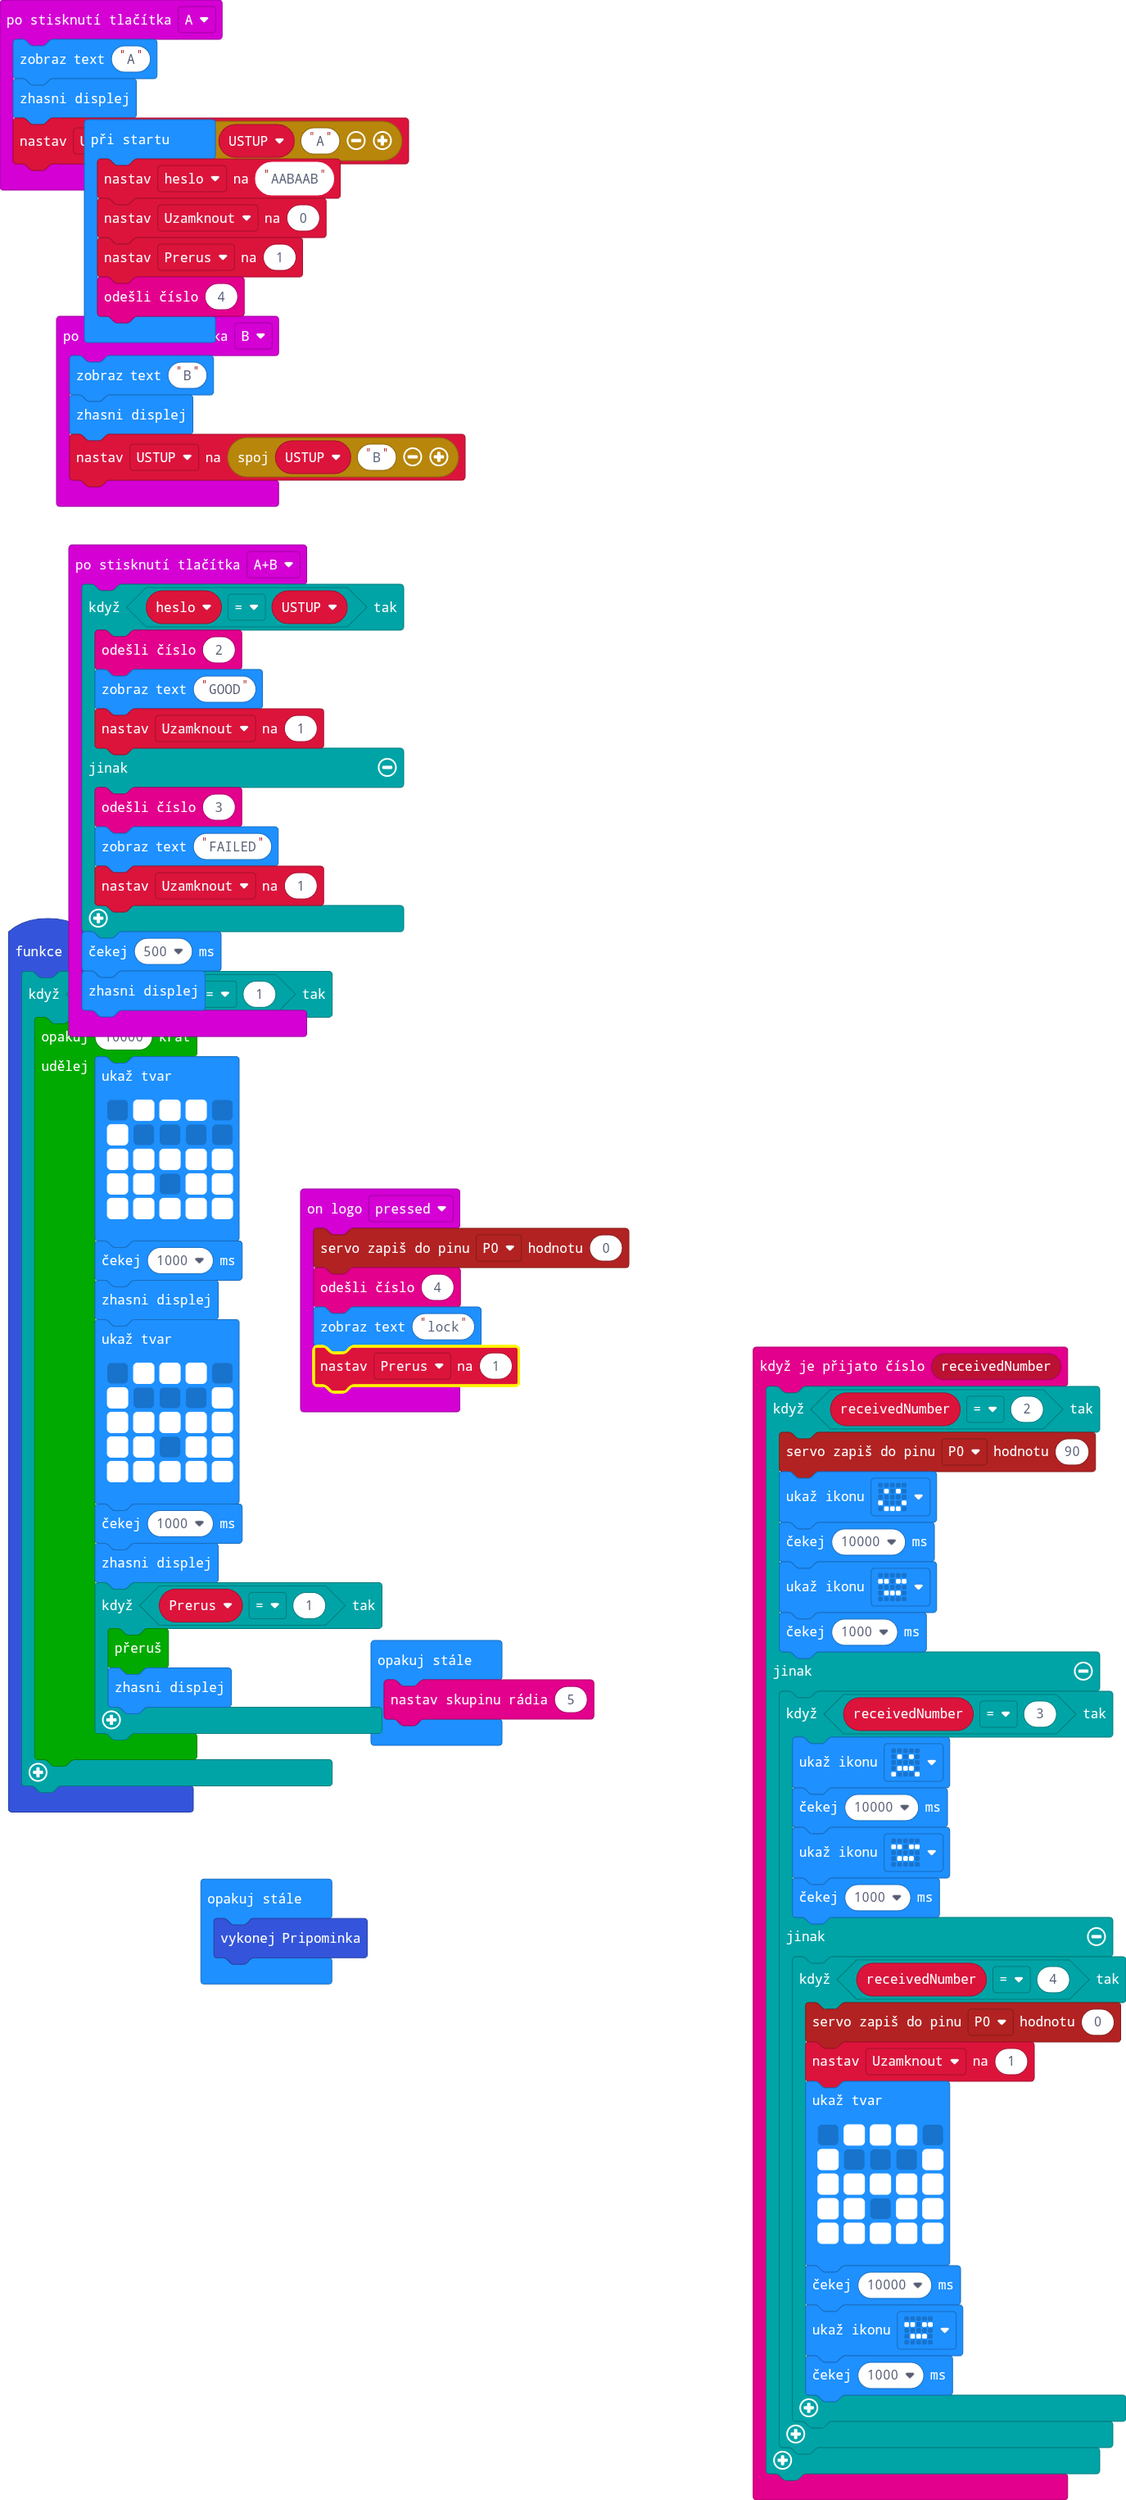
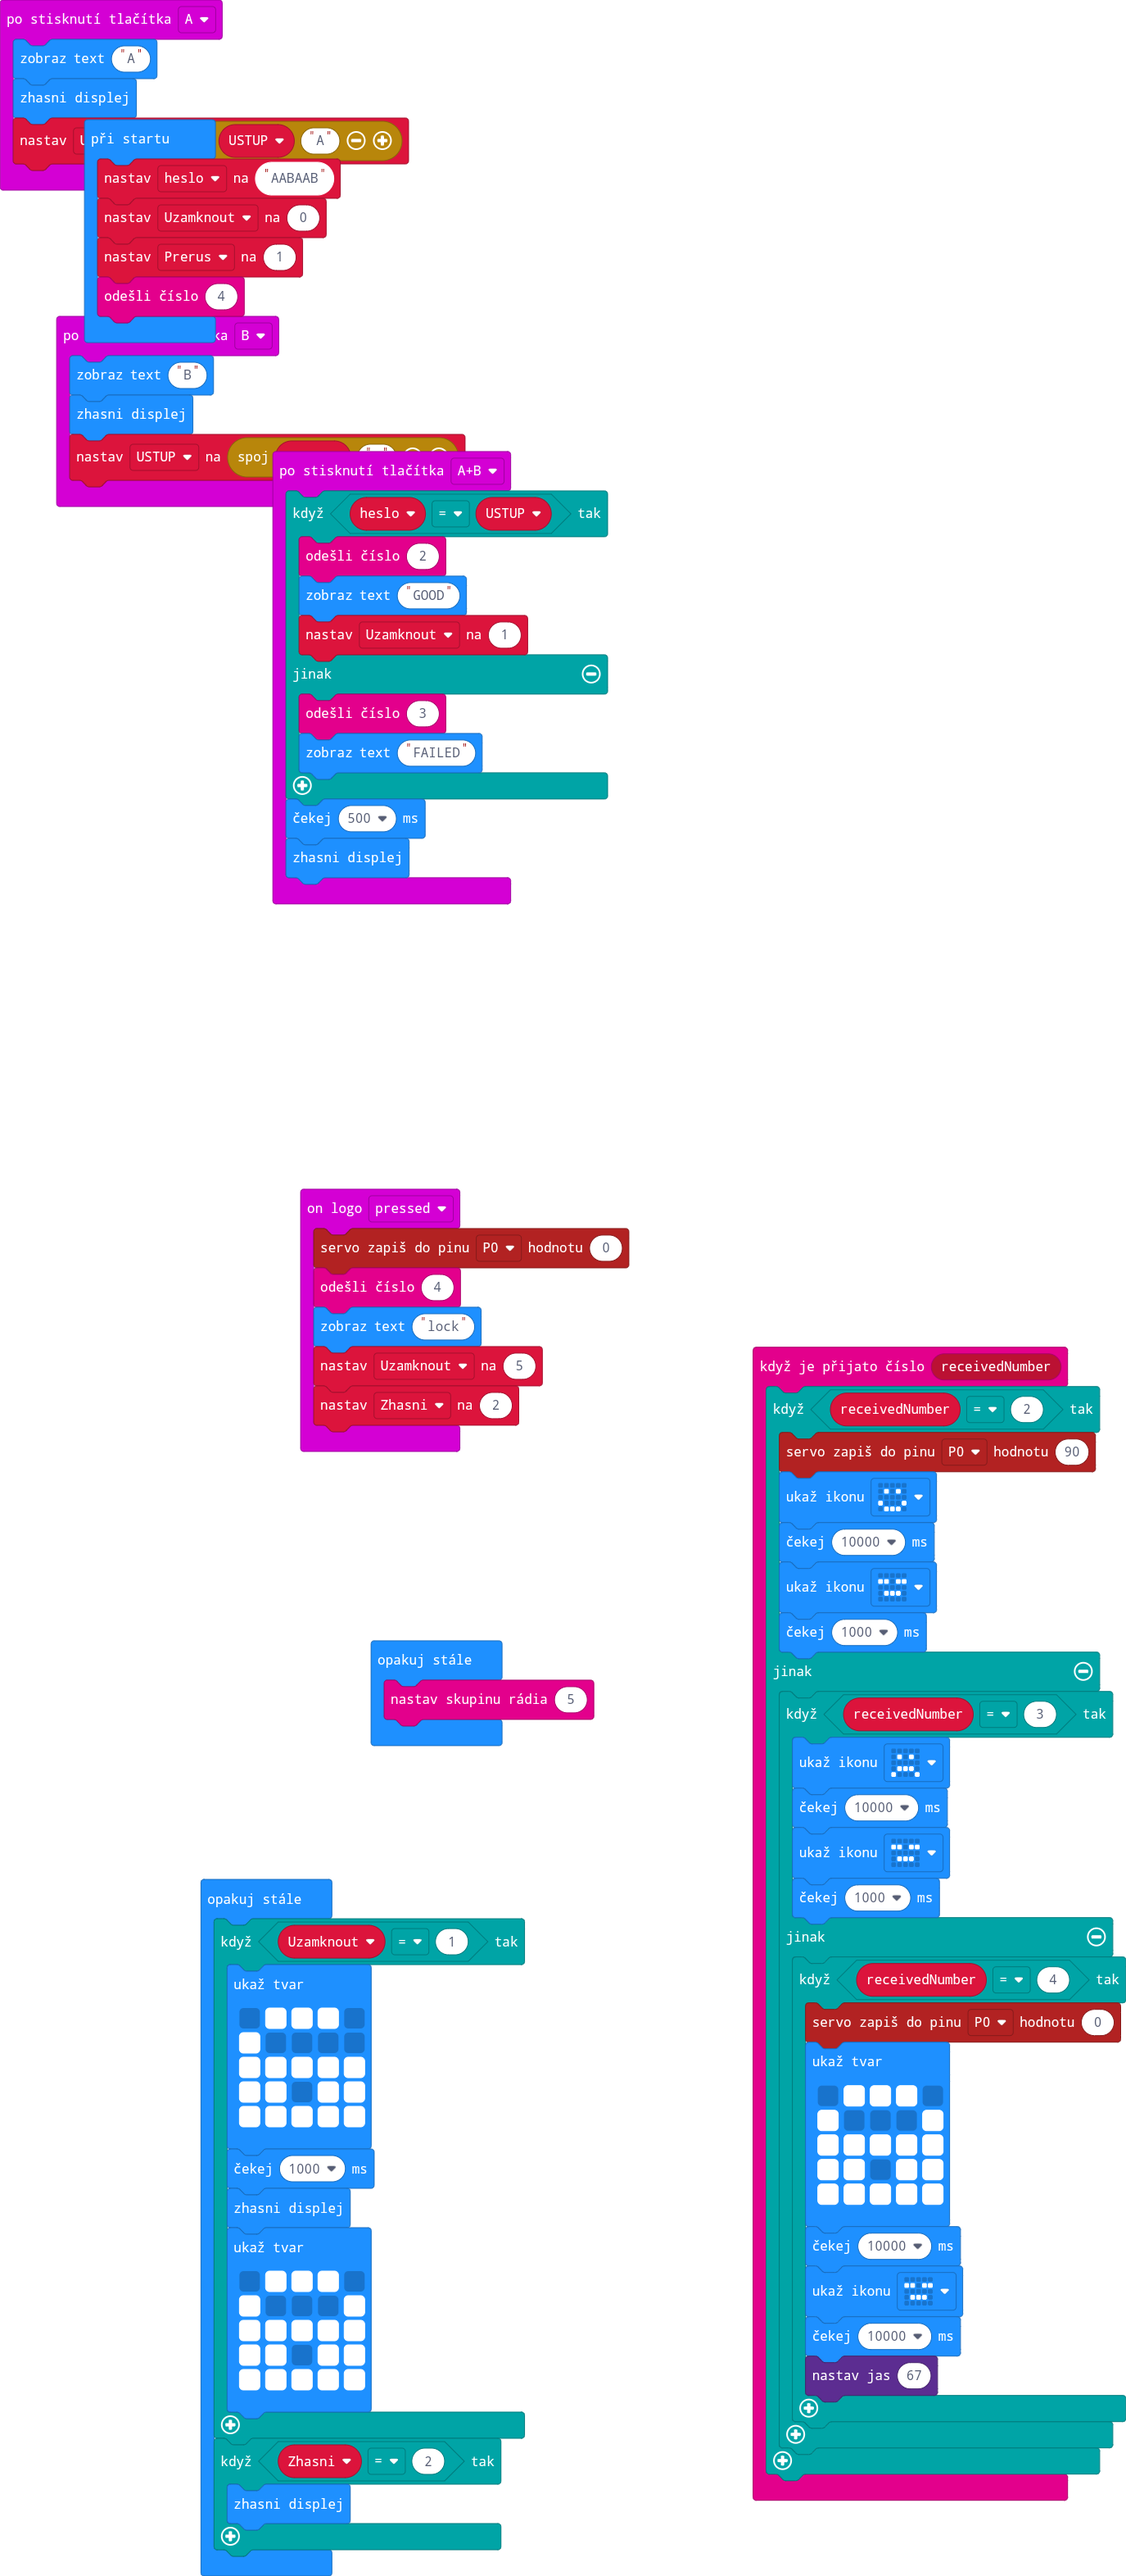
Aktualizovat main.blocks, main.ts

Changed region(s): [[0.0, 0.0, 0.5498, 1.0], [0.6415, 0.4982, 1.0, 1.0], [0.2444, 0.4359, 0.5804, 0.5605]]

diff --git a/main.ts b/main.ts
@@ -14,7 +14,6 @@ radio.onReceivedNumber(function (receivedNumber) {
         } else {
             if (receivedNumber == 4) {
                 pins.servoWritePin(AnalogPin.P0, 0)
-                Uzamknout = 1
                 basic.showLeds(`
                     . # # # .
                     # . . . #
@@ -24,7 +23,8 @@ radio.onReceivedNumber(function (receivedNumber) {
                     `)
                 basic.pause(10000)
                 basic.showIcon(IconNames.Asleep)
-                basic.pause(1000)
+                basic.pause(10000)
+                led.setBrightness(67)
             }
         }
     }
@@ -34,34 +34,6 @@ input.onButtonPressed(Button.A, function () {
     basic.clearScreen()
     USTUP = "" + USTUP + "A"
 })
-function Pripominka () {
-    if (Uzamknout == 1) {
-        for (let index = 0; index < 10000; index++) {
-            basic.showLeds(`
-                . # # # .
-                # . . . .
-                # # # # #
-                # # . # #
-                # # # # #
-                `)
-            basic.pause(1000)
-            basic.clearScreen()
-            basic.showLeds(`
-                . # # # .
-                # . . . #
-                # # # # #
-                # # . # #
-                # # # # #
-                `)
-            basic.pause(1000)
-            basic.clearScreen()
-            if (Prerus == 1) {
-                break;
-basic.clearScreen()
-            }
-        }
-    }
-}
 input.onButtonPressed(Button.AB, function () {
     if (heslo == USTUP) {
         radio.sendNumber(2)
@@ -70,7 +42,6 @@ input.onButtonPressed(Button.AB, function () {
     } else {
         radio.sendNumber(3)
         basic.showString("FAILED")
-        Uzamknout = 1
     }
     basic.pause(500)
     basic.clearScreen()
@@ -84,19 +55,40 @@ input.onLogoEvent(TouchButtonEvent.Pressed, function () {
     pins.servoWritePin(AnalogPin.P0, 0)
     radio.sendNumber(4)
     basic.showString("lock")
-    Prerus = 1
+    Uzamknout = 5
+    Zhasni = 2
 })
+let Zhasni = 0
 let USTUP = ""
-let Prerus = 0
 let Uzamknout = 0
 let heslo = ""
 heslo = "AABAAB"
 Uzamknout = 0
-Prerus = 1
+let Prerus = 1
 radio.sendNumber(4)
 basic.forever(function () {
     radio.setGroup(5)
 })
 basic.forever(function () {
-    Pripominka()
+    if (Uzamknout == 1) {
+        basic.showLeds(`
+            . # # # .
+            # . . . .
+            # # # # #
+            # # . # #
+            # # # # #
+            `)
+        basic.pause(1000)
+        basic.clearScreen()
+        basic.showLeds(`
+            . # # # .
+            # . . . #
+            # # # # #
+            # # . # #
+            # # # # #
+            `)
+    }
+    if (Zhasni == 2) {
+        basic.clearScreen()
+    }
 })
